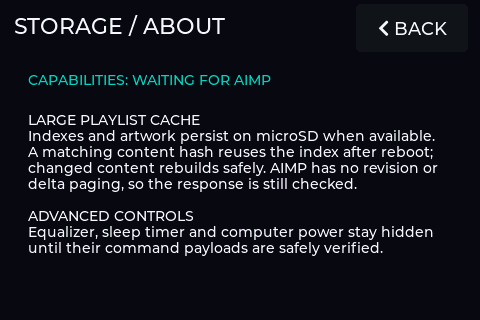
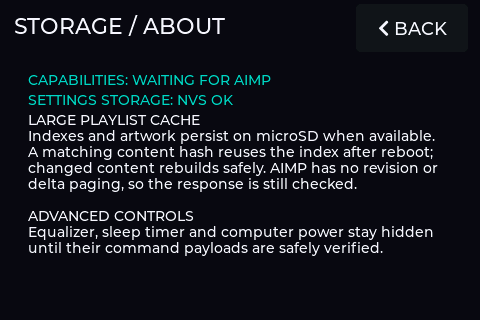
docs: record settings review qualification

Changed region(s): [[0.0625, 0.2812, 0.5, 0.3438]]

diff --git a/docs/TESTING.md b/docs/TESTING.md
@@ -203,6 +203,28 @@ pending because the configured Windows host did not accept TCP connections.
   long settings route names exceeded the query buffer, and base-page selection
   did not initially dismiss a settings overlay. Entering Storage/About and then
   requesting Now Playing on the final flash proved the overlay reset.
+- The adversarial review of PR #15 found invalid editable WPA credentials,
+  incomplete first-boot persistence, and misleading NVS-failure reporting.
+  Commit `2a091d4` resolves those findings: Wi-Fi passwords are restricted to
+  open networks, 8-63 printable-ASCII passphrases, or 64 hexadecimal digits;
+  the complete settings snapshot is schema-seeded and repaired atomically;
+  newer schemas fail without mutation; and storage failures remain visible
+  instead of being reported as successful saves. The single focused blocker
+  re-review passed with no remaining P1 or P2 finding.
+- The clean `2a091d4` build passed all 13 protocol tests and the expanded host
+  settings-policy test, used 1,986,016 bytes (48%) of the app partition, and
+  was hash-verified after flashing. Boot identified the exact commit and
+  ESP-IDF 5.5.4, passed the embedded 2 MB PSRAM test, loaded the complete NVS
+  settings snapshot, mounted the 60,786 MB microSD card, and joined Wi-Fi at
+  `192.168.227.64`. The refreshed physical Storage/About framebuffer showed
+  `SETTINGS STORAGE: NVS OK` without clipping. The AIMP host still resolved to
+  `192.168.227.178`, but TCP port 19371 timed out, so live AIMP validation was
+  not claimed.
+- The blank-screen overlay is topmost and clickable before the backlight is
+  disabled, and the wake path waits for pointer release before hiding it. This
+  structurally prevents the first wake press from reaching an underlying
+  control. A literal finger-driven timeout/wake/second-touch sequence was not
+  performed during this unattended run and remains a manual hardware check.
 
 ## Visual inspection
 
